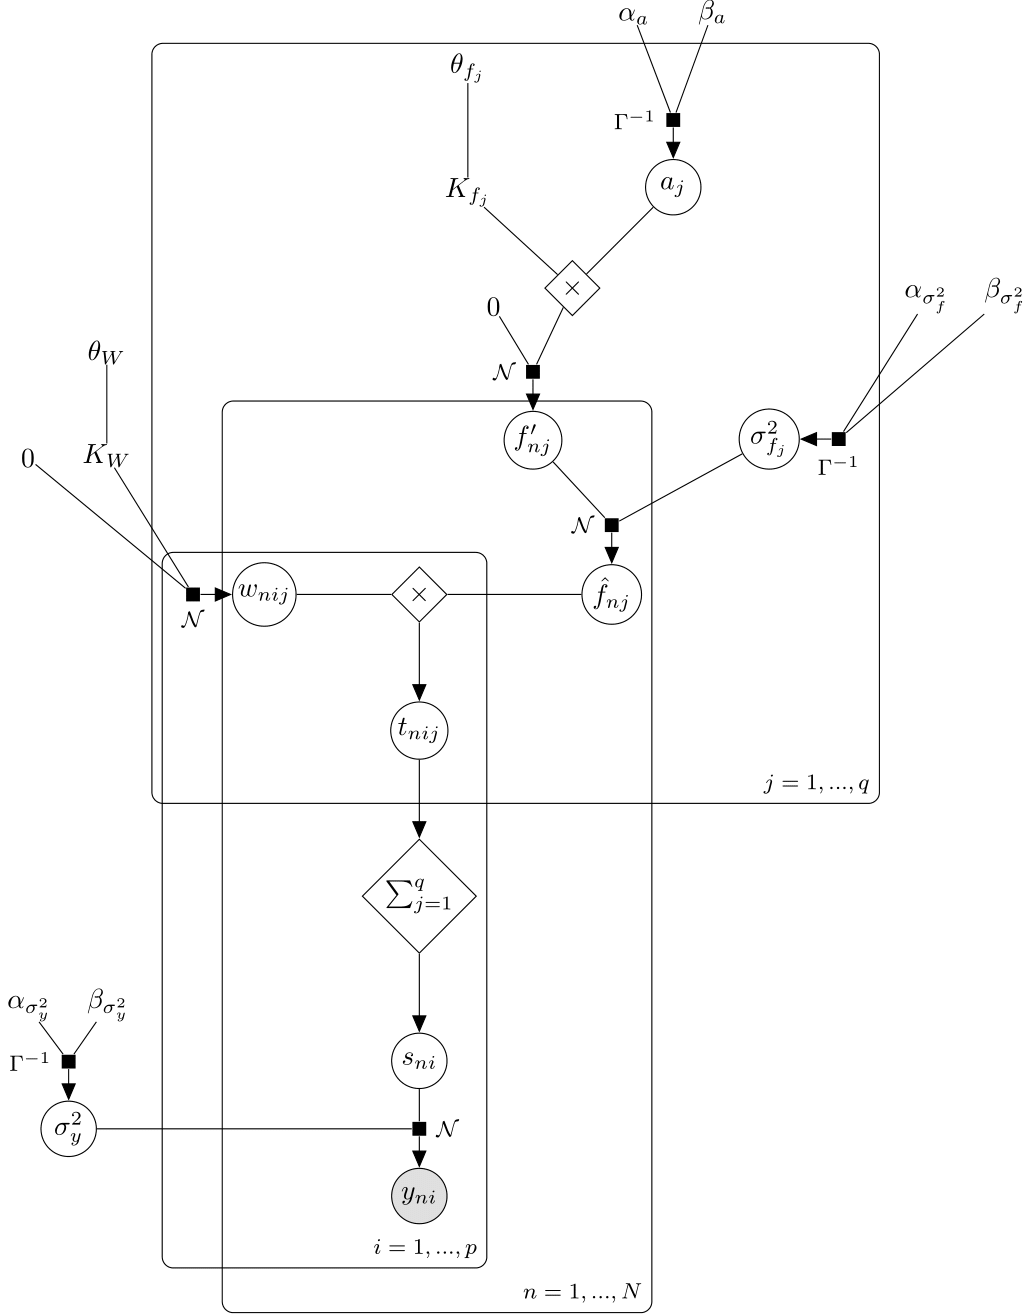
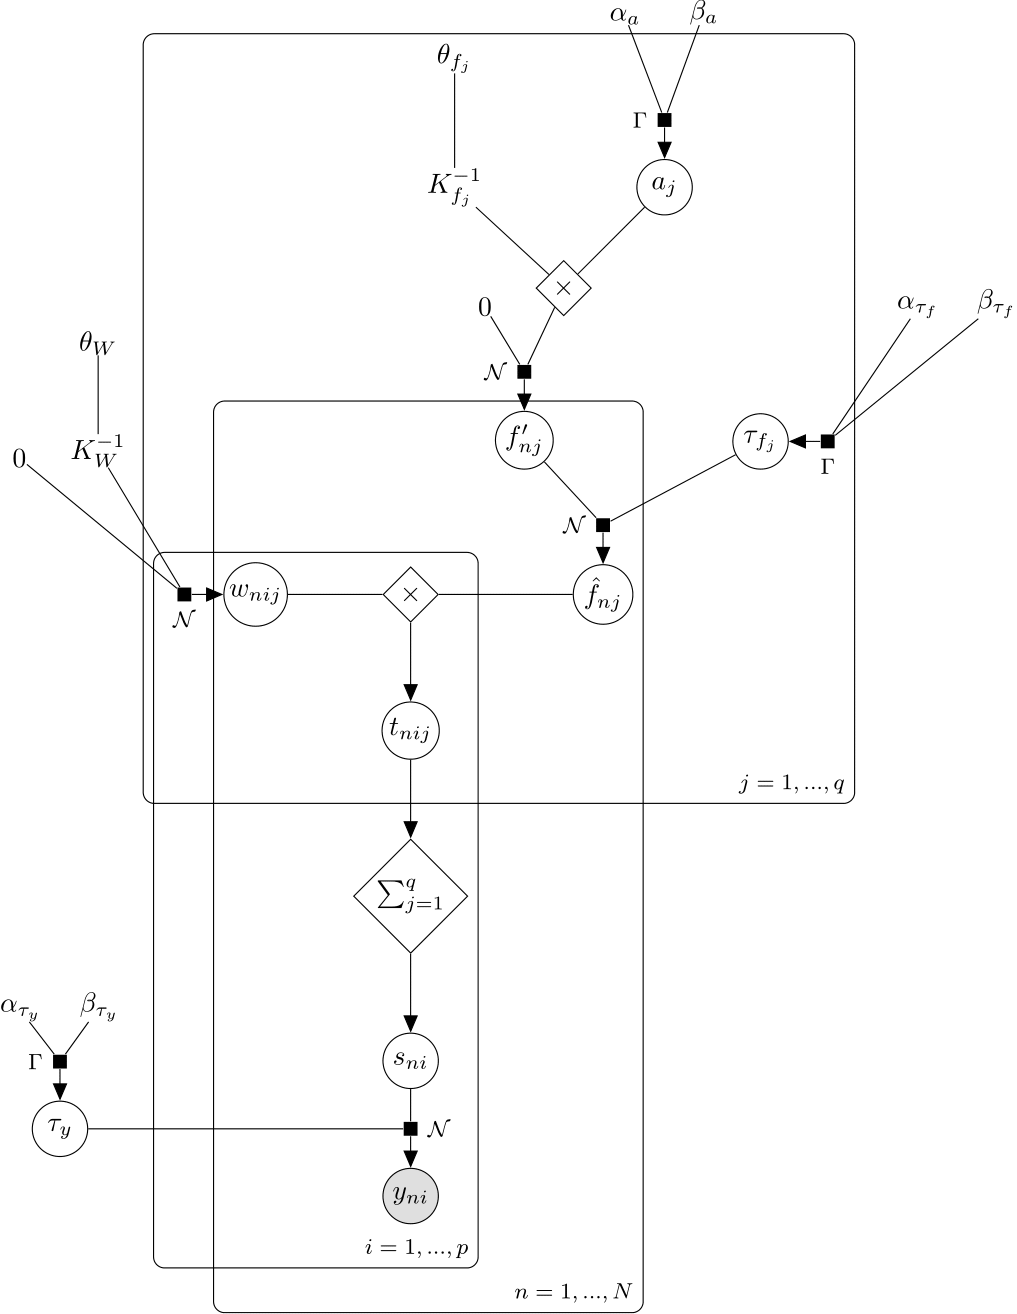
Added GP example from Jaakko

diff --git a/gprn-factor-graph.tex b/gprn-factor-graph.tex
@@ -27,38 +27,38 @@
 
   % f' and sigma^2_f
   \node[latent, above=1.2 of f_hat, xshift=-1cm] (f) {$f'_{nj}$};
-  \node[latent, above=1.2 of f_hat, xshift=2cm] (sigma_f) {$\sigma^2_{f_j}$};
+  \node[latent, above=1.2 of f_hat, xshift=2cm] (sigma_f) {$\tau_{f_j}$};
 
   % W hyperparameters
   \node[const, above=1.2 of w, xshift=-3cm] (W_mean) {$0$} ; %
-  \node[const, above=1.2 of w, xshift=-2cm]  (K_W) {$K_W$} ; %
+  \node[const, above=1.2 of w, xshift=-2cm]  (K_W) {$K_W^{-1}$} ; %
   \node[const, above=of K_W] (theta_w) {$\theta_W$} ; %
   
   % sigma^2_f hyperparameters
-  \node[const, above=1.2 of sigma_f, xshift=2cm] (a_f) {$\alpha_{\sigma^2_{f}}$};
-  \node[const, above=1.2 of sigma_f, xshift=3cm] (b_f) {$\beta_{\sigma^2_{f}}$};
+  \node[const, above=1.2 of sigma_f, xshift=2cm] (a_f) {$\alpha_{\tau_{f}}$};
+  \node[const, above=1.2 of sigma_f, xshift=3cm] (b_f) {$\beta_{\tau_{f}}$};
   
   % f' hyperparameters
   \node[const, above=1.2 of f, xshift=-0.5cm] (f_mean) {$0$};
   \node[det, above=1.2 of f, xshift=0.5cm] (times2) {$\times$};
-  \node[const, above left=1.2 of times2] (K_f) {$K_{f_j}$};
+  \node[const, above left=1.2 of times2] (K_f) {$K_{f_j}^{-1}$};
   \node[latent, above right=1.2 of times2] (a) {$a_j$};
   \node[const, above=1.2 of K_f] (theta_f) {$\theta_{f_j}$};
   \node[const, above=1.7 of a, xshift=-0.5cm] (a_a) {$\alpha_a$};
   \node[const, above=1.7 of a, xshift=0.5cm] (b_a) {$\beta_a$};
   
   % noise
-  \node[latent, left=4cm of y-f]         (sigma_y)   {$\sigma^2_y$}; %
-  \node[const, above=of sigma_y, xshift=-0.5cm] (a_y)  {$\alpha_{\sigma^2_y}$} ; %
-  \node[const, above=of sigma_y, xshift=0.5cm]  (b_y)  {$\beta_{\sigma^2_y}$} ; %
+  \node[latent, left=4cm of y-f]         (sigma_y)   {$\tau_y$}; %
+  \node[const, above=of sigma_y, xshift=-0.5cm] (a_y)  {$\alpha_{\tau_y}$} ; %
+  \node[const, above=of sigma_y, xshift=0.5cm]  (b_y)  {$\beta_{\tau_y}$} ; %
 
   % Factors
   \factor[left=of w] {w-f} {below:$\mathcal{N}$} {W_mean,K_W} {w} ; %
   \factor[above=of f_hat] {f_hat-f} {left:$\mathcal{N}$} {f,sigma_f} {f_hat} ; %
-  \factor[above=of sigma_y] {sigma_y-f} {left:$\Gamma^{-1}$} {a_y,b_y} {sigma_y} ; %
-  \factor[right=of sigma_f] {sigma_f-f} {below:$\Gamma^{-1}$} {a_f,b_f} {sigma_f};
+  \factor[above=of sigma_y] {sigma_y-f} {left:$\Gamma$} {a_y,b_y} {sigma_y} ; %
+  \factor[right=of sigma_f] {sigma_f-f} {below:$\Gamma$} {a_f,b_f} {sigma_f};
   \factor[above=of f] {f-f} {left:$\mathcal{N}$} {f_mean,times2} {f};
-  \factor[above=of a] {a-f} {left:$\Gamma^{-1}$} {a_a,b_a} {a};
+  \factor[above=of a] {a-f} {left:$\Gamma$} {a_a,b_a} {a};
   \factoredge {s,sigma_y} {y-f} {y} ; %
 
   % Edges

diff --git a/README.md b/README.md
@@ -7,14 +7,14 @@ A research notebook for exploring the usage of `bayespy` for implementing [Gauss
 
 ## Tasks
 
-- [x] Draw graph of all variables, parameters, and hyperparemeters for GPRN
+- [x] Draw graph of all variables, parameters, and hyperparameters for GPRN
   - <img src="resources/gprn-factor-graph.png" alt="Gaussian process regression network factor graph" width="300">
 - [ ] Implement GPRN
   - [ ] Build GPRN framework in `bayespy` for learning hyperparameters
     - [ ] Translate graph into code 
-    - [ ] Implement update message for $a_j$ as described in [the paper][GPRN paper]
-    - [ ] Implement update for $\theta_f$
-    - [ ] Implement update for $\theta_W$
+    - [ ] ~~Implement update message for $a_j$ as described in [the paper][GPRN paper]~~
+    - [ ] ~~Implement update for $\theta_f$~~
+    - [ ] ~~Implement update for $\theta_W$~~
   - [ ] Implement MCMC sampling ([possibly using elliptical slice sampling](https://github.com/jobovy/bovy_mcmc/blob/master/bovy_mcmc/elliptical_slice.py))
   - [ ] Build a simple API
 - [ ] Obtain data used in [the paper][GPRN paper]
